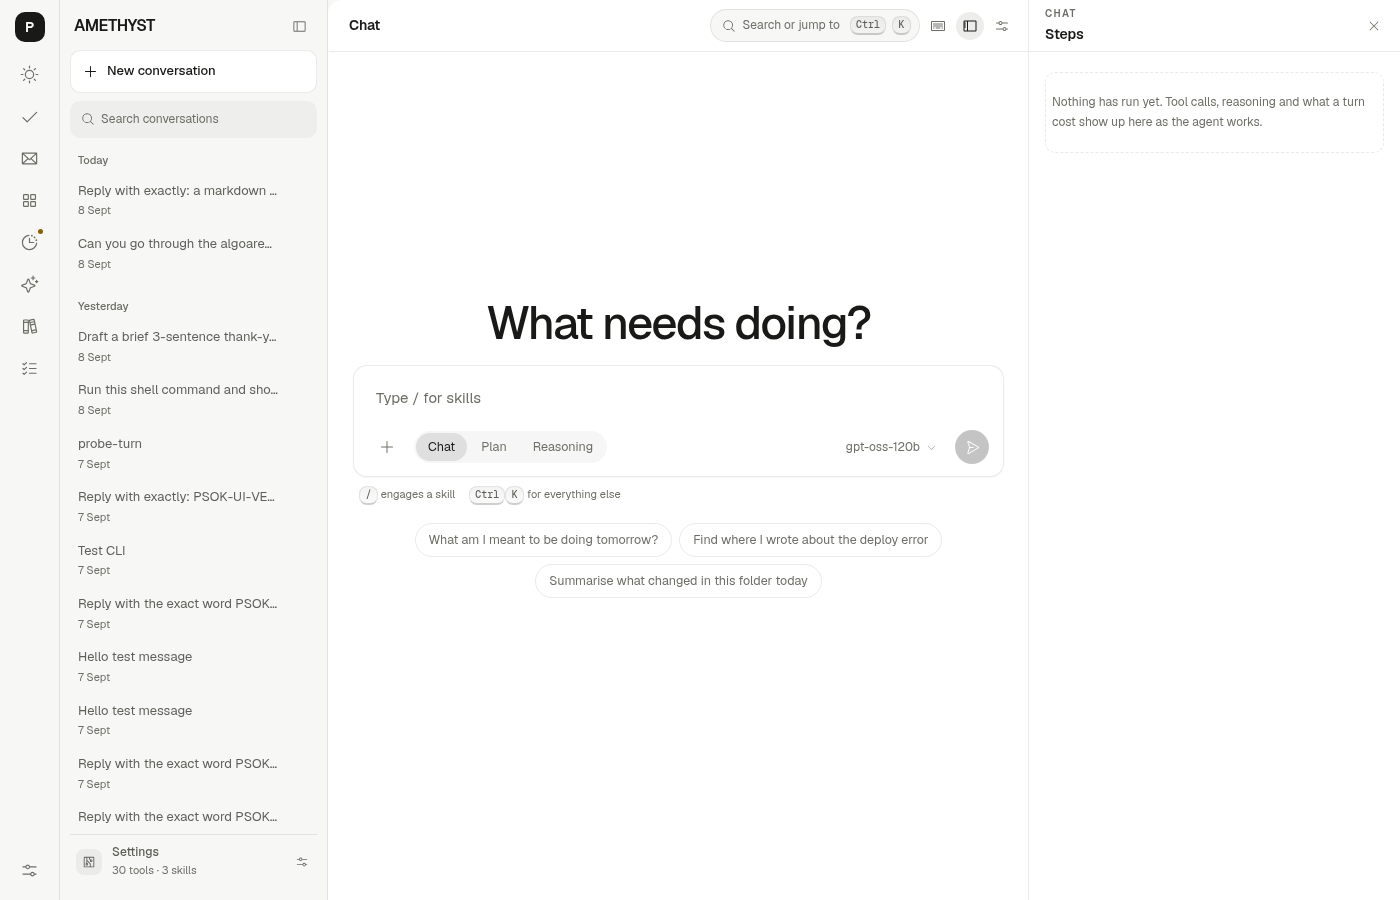
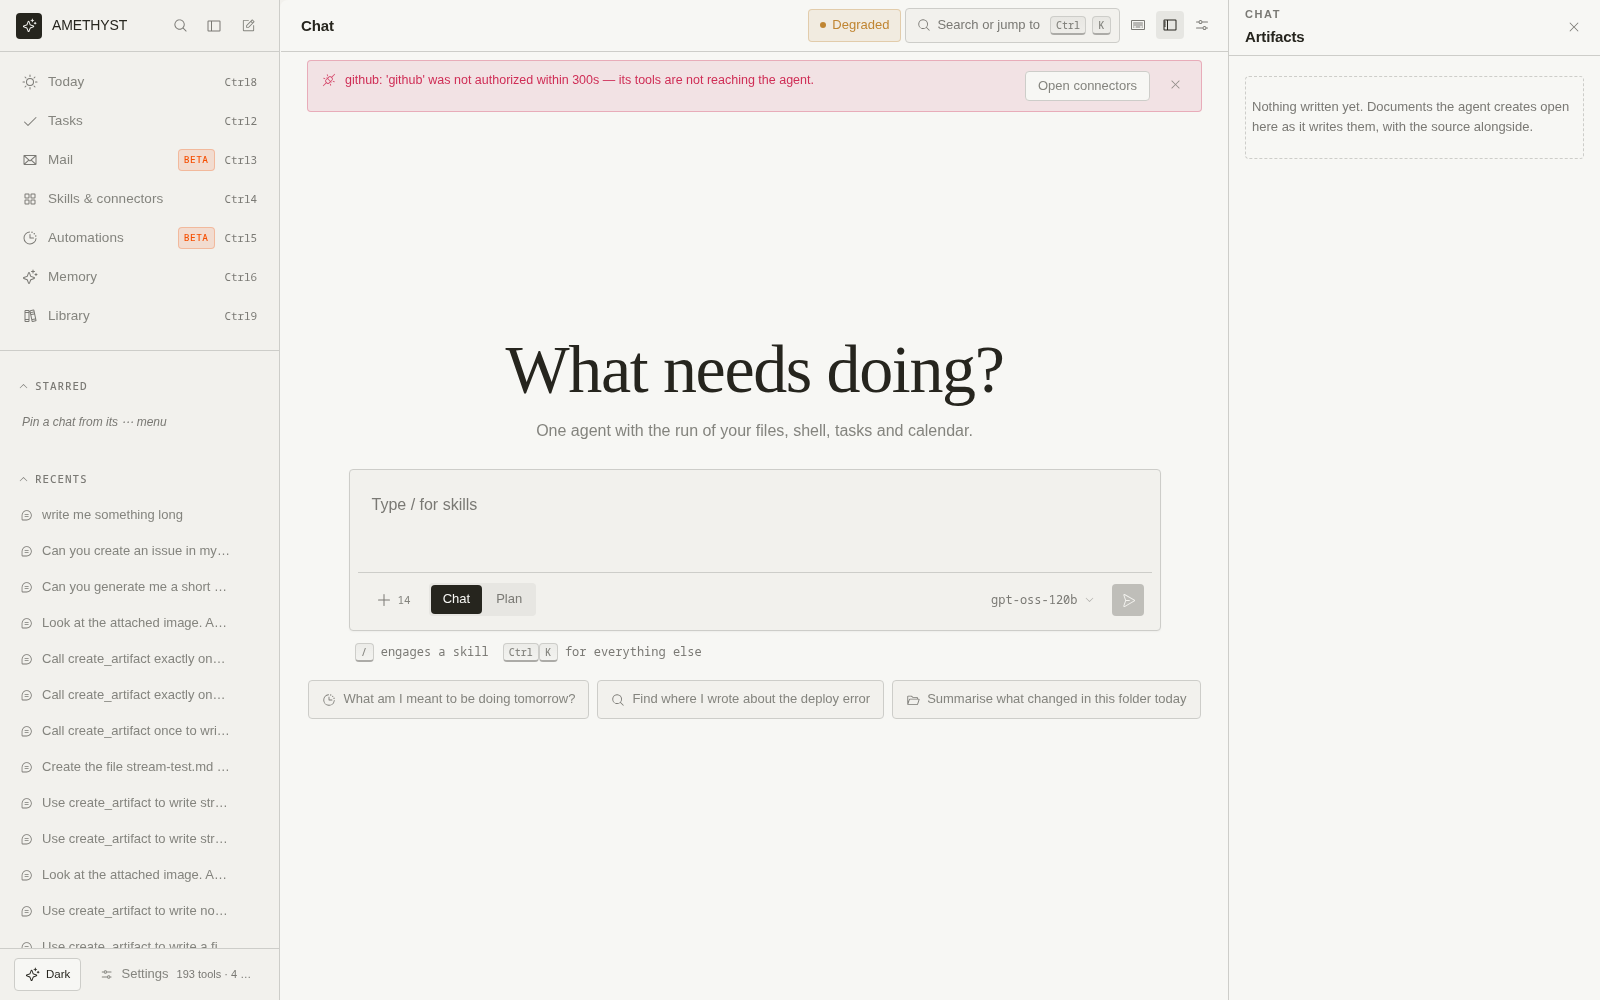
docs: real screenshots of every view, setup help
- README: view-by-view screenshot table (14 new captures of a live
  instance), command palette and + menu shots
- QUICKSTART: first-five-minutes walkthrough, port-in-use and
  provider-not-configured fixes
- screenshots captured headless against a running amethyst serve

diff --git a/README.md b/README.md
@@ -8,7 +8,7 @@
 
 ## ⚡ Quick Start
 
-> 📖 **Full guide:** See [QUICKSTART.md](QUICKSTART.md) for 2-minute setup, connecting Ollama (free local models), and API keys.
+> 📖 **Full guide:** See [QUICKSTART.md](QUICKSTART.md) for the 2-minute setup, connecting Ollama (free local models), and API keys.
 
 ### 1-Line Automated Launcher (macOS / Linux / WSL2)
 
@@ -100,6 +100,37 @@ Configure a second provider and a turn survives the first one being down: it fal
 
 ---
 
+## The interface, room by room
+
+One React app over the same API the CLI uses. Every image below is a real screenshot of a running instance.
+
+| View | What lives there |
+|---|---|
+| [![Chat](docs/images/view-chat.png)](#chat) **Chat** `⌘1` | The transcript, the composer, the `+` menu — files, skills, connectors, the working directory — and inline permission prompts. |
+| [![Today](docs/images/view-today.png)](#today) **Today** `⌘8` | Calendar, task buckets, unread mail and connected tools on one page, under a briefing written each morning. |
+| [![Tasks](docs/images/view-tasks.png)](#tasks) **Tasks** `⌘2` | Task lists as a board of cards; My Day shows only what you intend to do today. |
+| [![Mail](docs/images/view-mail.png)](#mail) **Mail** `⌘3` *(beta)* | Gmail read directly — not through the connector — with a search that jumps. |
+| [![Skills & connectors](docs/images/view-skills.png)](#skills--connectors) **Skills & connectors** `⌘4` | Two tabs, one page: what is added and what could be. OAuth sign-ins and credentials finish here. |
+| [![Automations](docs/images/view-automations.png)](#automations) **Automations** `⌘5` *(beta)* | A prompt and an interval, run as an ordinary turn while AMETHYST is open. |
+| [![Memory](docs/images/view-memory.png)](#memory) **Memory** `⌘6` | Standing facts extracted after a turn, recalled in later conversations. |
+| [![Library](docs/images/view-library.png)](#library) **Library** `⌘9` | What you have read and saved — fetched, summarised, tagged and searchable. |
+| [![Activity](docs/images/view-activity.png)](#activity) **Activity** `⌘7` | Every tool call, with the decision that allowed it. Reached from Settings. |
+| [![Status](docs/images/view-status.png)](#status) **Status** | Providers, tools, skills and what needs attention. Reached from the degraded banner or the palette (`⌘K`). |
+
+Beta pages (Mail, Automations) are off until **Settings → Beta pages** is enabled.
+
+Every action in the app is also in the command palette (`⌘K`), the `+` menu gathers everything the agent can be given for the next message, and `?` lists every keyboard binding.
+
+![The command palette](docs/images/view-palette.png)
+
+![The composer menu](docs/images/view-plus-menu.png)
+
+![Connectors](docs/images/connectors.png)
+
+Press `?` in the app for every keyboard binding; [interface.md](docs/interface.md) covers how each view is built and why it is this one.
+
+---
+
 ## What needs what — and what merely degrades
 
 The honest table: most missing pieces cost a feature quietly rather than break a start.
@@ -166,7 +197,7 @@ Each of these was exercised end to end, not just wired up.
 
 Everything the agent can be given for the next message hangs off one button beside the composer — files, the working directory, skills, connectors, and the full list of tools it can currently call.
 
-![The composer menu](docs/images/menu.png)
+![The composer menu](docs/images/view-plus-menu.png)
 
 **A web interface** over the same API: streamed answers rendered as markdown, inline permission prompts, a command palette, file attachments, connector setup — catalogue, OAuth, credentials — and a keyboard layer where `?` lists every binding. The side panel is context-aware: run steps on Chat, thread detail on Mail.
 
@@ -190,11 +221,11 @@ Everything the agent can be given for the next message hangs off one button besi
 Interface (CLI · HTTP/SSE API · React app served by the same process)
         │
    Agent Loop ── the single owner of reason → act → observe
-        ├── AI Runtime ......... provider adapters behind one contract
-        ├── Tool Registry ...... one flat namespace; permission gate on every dispatch
-        │     ├── builtin ...... filesystem, shell, desktop, tasks, calendar, web
-        │     └── MCP .......... browser, GitHub, Google, or any server you add
-        └── Retrieval .......... hybrid search over your notes
+         ├── AI Runtime ......... provider adapters behind one contract
+         ├── Tool Registry ...... one flat namespace; permission gate on every dispatch
+         │     ├── builtin ...... filesystem, shell, desktop, tasks, calendar, web
+         │     └── MCP .......... browser, GitHub, Google, or any server you add
+         └── Retrieval .......... hybrid search over your notes
                 │
         SQLite (+vec, +FTS5) · filesystem for documents · OS keychain for secrets
 ```

diff --git a/QUICKSTART.md b/QUICKSTART.md
@@ -186,3 +186,29 @@ Yes! Simply run:
 ./run.sh --dev
 ```
 This starts the backend on port `8000` and the Vite dev server on `http://127.0.0.1:5173`.
+
+---
+
+## 🗺 Your First Five Minutes
+
+Now that the app is open at http://127.0.0.1:8000, here is the fastest path to a useful answer:
+
+1. **Pick a model** — the model selector beside the composer lists every configured provider. Ollama models appear automatically if Ollama is running.
+2. **Send one line** — try `summarise ~/Documents` or `what meetings do I have this week?`. The agent decides which tools to use.
+3. **Approve carefully** — anything that writes or runs asks first, naming the *operation* (`write_file`, `run_shell_command:read-only`), not just the tool. Approving a read-only command never approves a destructive one.
+4. **Press `?`** — every keyboard binding in the app, one screen.
+5. **Turn on beta pages** — Settings (`⌘,`) → **Beta pages** adds Mail and Automations to the rail.
+
+### Q: `Error: address already in use` or the port is taken?
+Another AMETHYST (or something else) is on port 8000:
+```bash
+./run.sh --port 8001
+```
+Or stop the old one first (`Ctrl+C` in its terminal).
+
+### Q: The model replies "not configured" or no provider appears?
+- Ollama: check it is running (`curl http://127.0.0.1:11434`) and you pulled a model (`ollama run llama3.2`).
+- Cloud: the key did not reach the process — keys in `.env` are read at start, so restart after editing. `amethyst doctor` says exactly which providers are up.
+
+### Q: The turn just stopped — is that a bug?
+A permission prompt suspends the turn until answered; check for an amber prompt above the composer, or another conversation holding it (announced as a line above the transcript). `Escape` denies, `Enter` allows, `R` arms "remember this decision".
